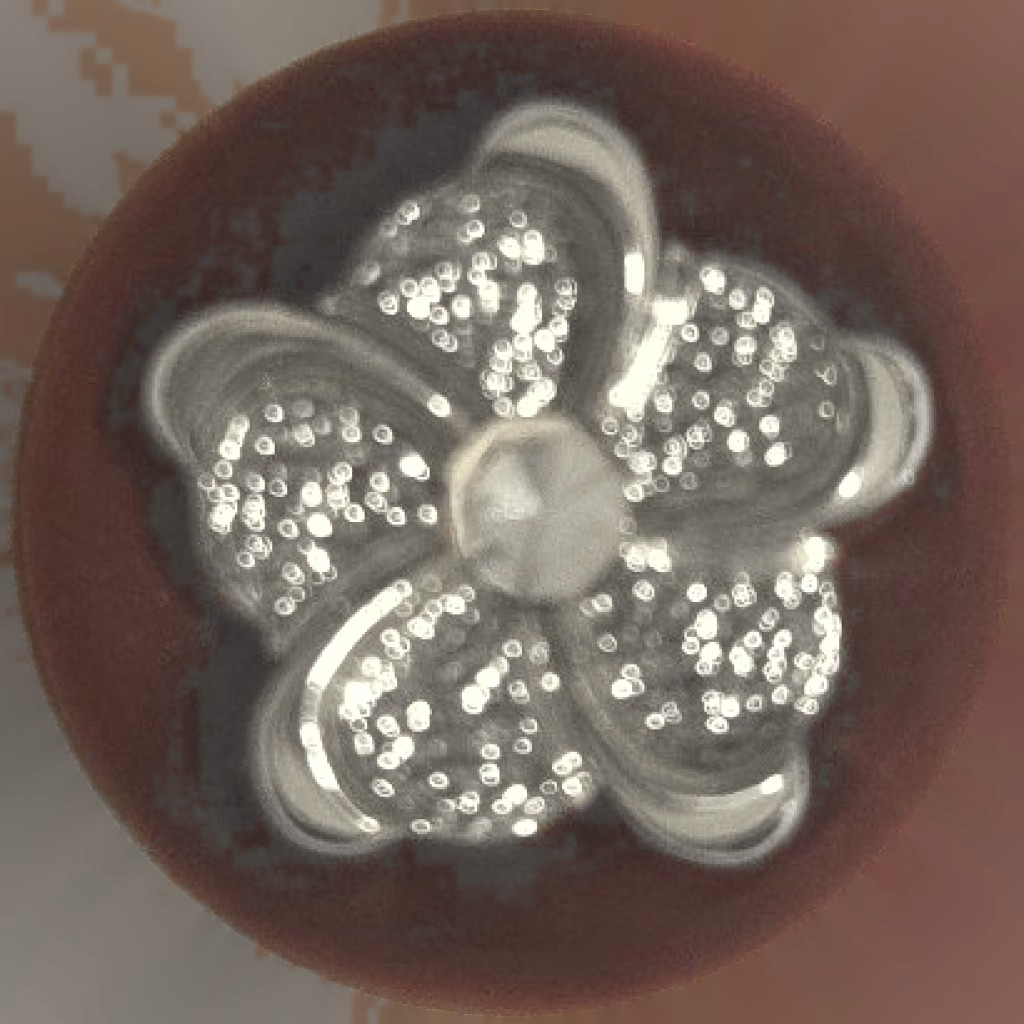
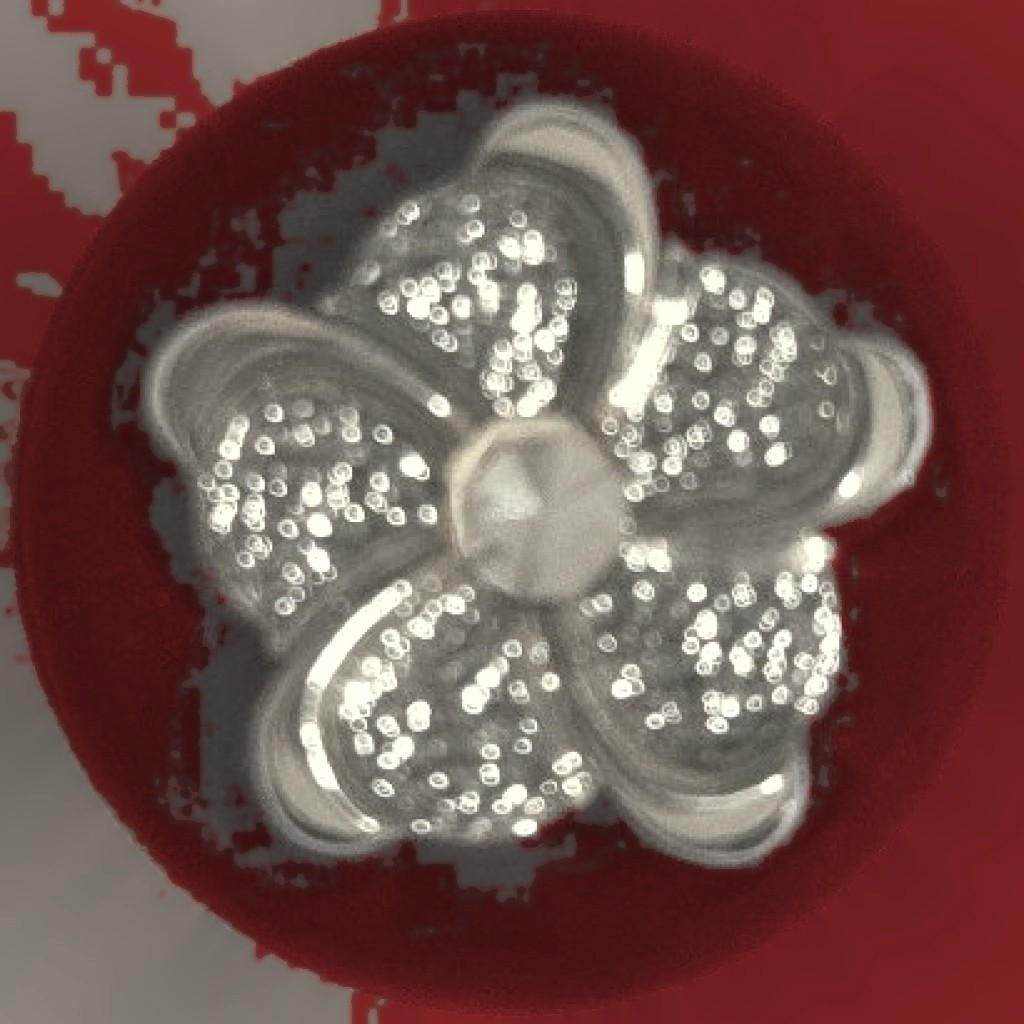
No.012 中の赤をワインレッドに（グレーっぽさを解消）
Claude-Session: https://claude.ai/code/session_016FYwPZtfL2VXYvYEvMUPRr

diff --git a/buttons/012/model.js b/buttons/012/model.js
@@ -9,7 +9,7 @@ function buildL() {
   const core = new THREE.Group();
   // core front: flower relief with sparkling silver glitter
   const fm = glitterMat(tex(TEX.front), loader.load(TEX.glitter));
-  fm.roughness = .2; fm.metalness = .55; fm.envMapIntensity = 1.1;
+  fm.roughness = .2; fm.metalness = .1; fm.envMapIntensity = .7;
   const baseFm = fm.onBeforeCompile;
   fm.onBeforeCompile = (sh) => { baseFm(sh); sh.fragmentShader = sh.fragmentShader.replace('totalEmissiveRadiance += acc * mk * 2.6;', 'totalEmissiveRadiance += acc * mk * 4.0;'); };
   const front = new THREE.Mesh(cloverRelief(CORE_H, .095 / C, .07 / C), fm);
@@ -40,7 +40,7 @@ function buildL() {
   const bp = bg.attributes.position, buv = bg.attributes.uv;
   for (let i = 0; i < bp.count; i++) buv.setXY(i, bp.getX(i) / 2 + .5, bp.getY(i) / 2 + .5);
   core.add(new THREE.Mesh(bg, backMat));
-  core.add(new THREE.Mesh(rim(1, .095 / C, BZ, 200), new THREE.MeshPhysicalMaterial({ color: 0x5a1a20, roughness: .3, clearcoat: .8 })));
+  core.add(new THREE.Mesh(rim(1, .095 / C, BZ, 200), new THREE.MeshPhysicalMaterial({ color: 0x6e1414, roughness: .3, clearcoat: .8 })));
   core.scale.set(C, C, C);
   grp.add(core);
   // clear acrylic rim around the core

diff --git a/index.html b/index.html
@@ -75,7 +75,7 @@
       <div class="cap"><span class="no">No. 011</span><span class="name">透明なばらの封じ込め</span><span class="sub">透明なアクリルの中に、八角形の金のばらのメダル</span></div>
     </a></li>
     <li><a class="card" href="buttons/012/">
-      <div class="well"><img src="buttons/012/thumb.png?v=939ceffcda" width="512" height="512" alt="透明縁のワインレッドのボタン" loading="lazy"></div>
+      <div class="well"><img src="buttons/012/thumb.png?v=67aac82aea" width="512" height="512" alt="透明縁のワインレッドのボタン" loading="lazy"></div>
       <div class="cap"><span class="no">No. 012</span><span class="name">透明縁のワインレッド</span><span class="sub">ワインレッドの丸に、銀のラメをまとった五弁の花。まわりは淡い透明の縁</span></div>
     </a></li>
   </ul>

diff --git a/buttons/012/index.html b/buttons/012/index.html
@@ -47,8 +47,8 @@
   <footer>表と裏の模様は、実物のボタンを撮った写真から切り抜いて貼っています。厚みや足の形は写真を見ながら合わせたもので、だいたいの形です。</footer>
 </div>
 <script src="https://cdn.jsdelivr.net/npm/three@0.147.0/build/three.min.js"></script>
-<script>window.ASSET_V = "e9d751fb38";</script>
+<script>window.ASSET_V = "5ddcf89289";</script>
 <script src="../../assets/zukan.js?v=32108acddd"></script>
-<script src="model.js?v=e9d751fb38"></script>
+<script src="model.js?v=5ddcf89289"></script>
 </body>
 </html>
